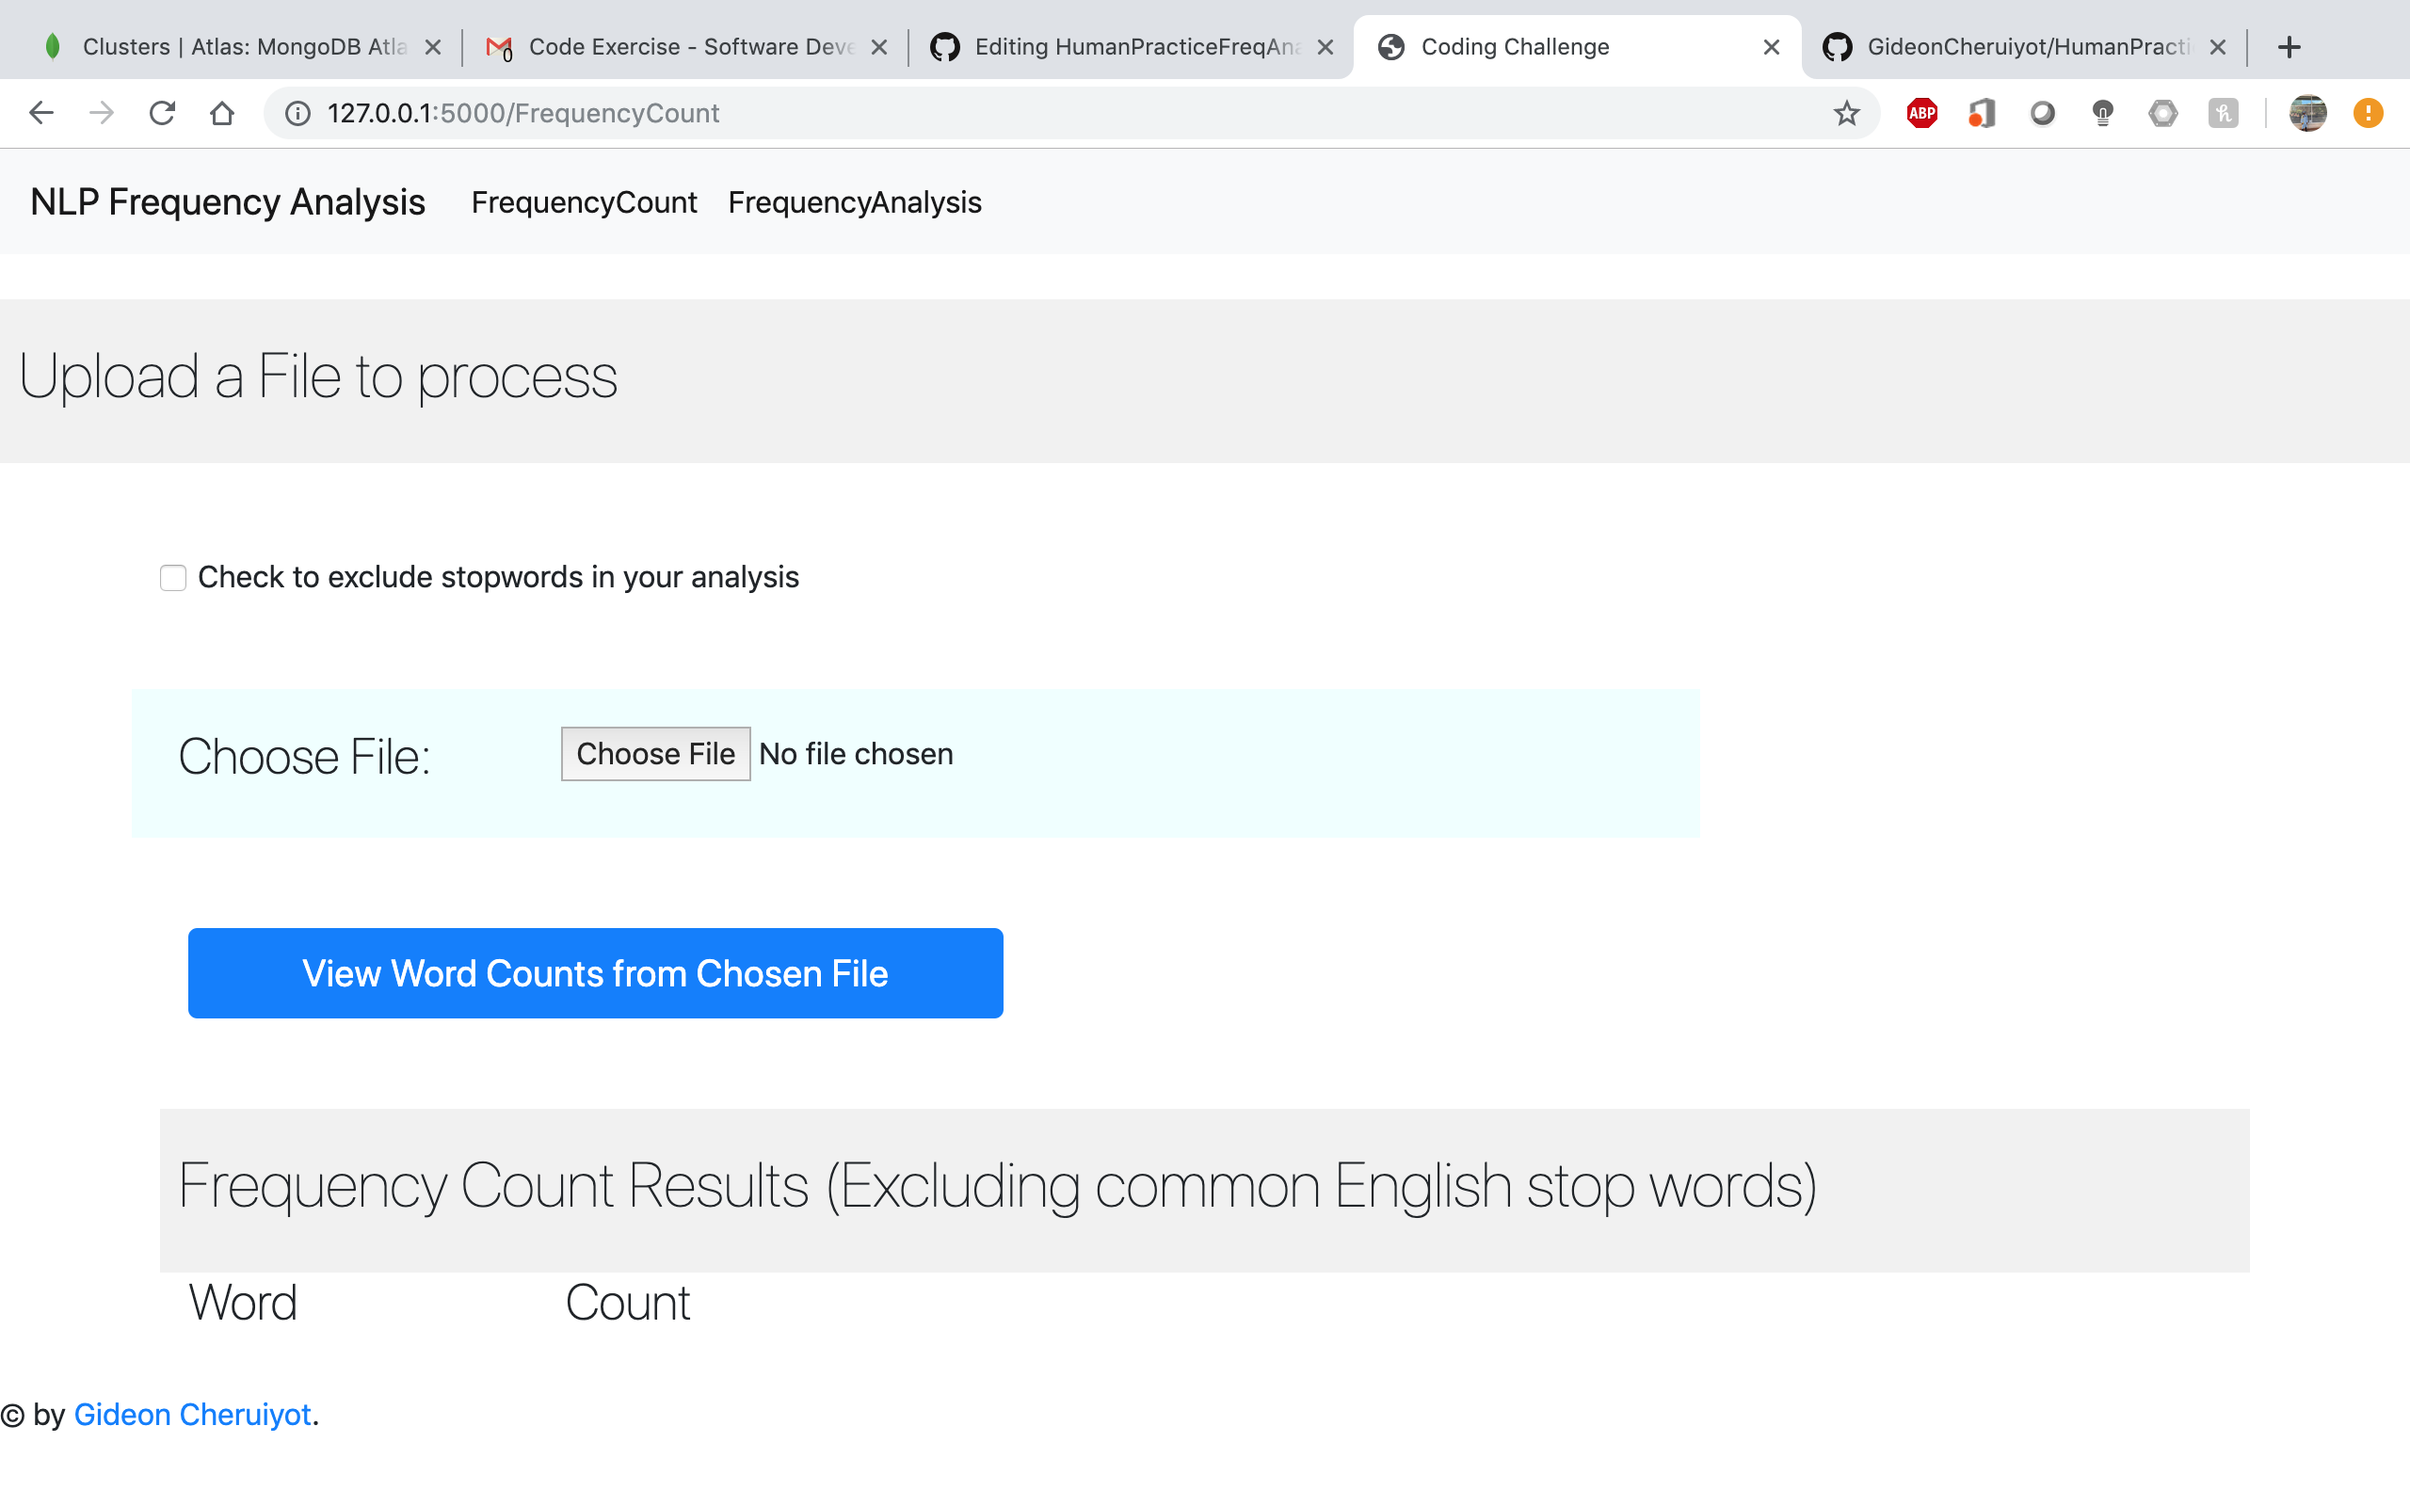
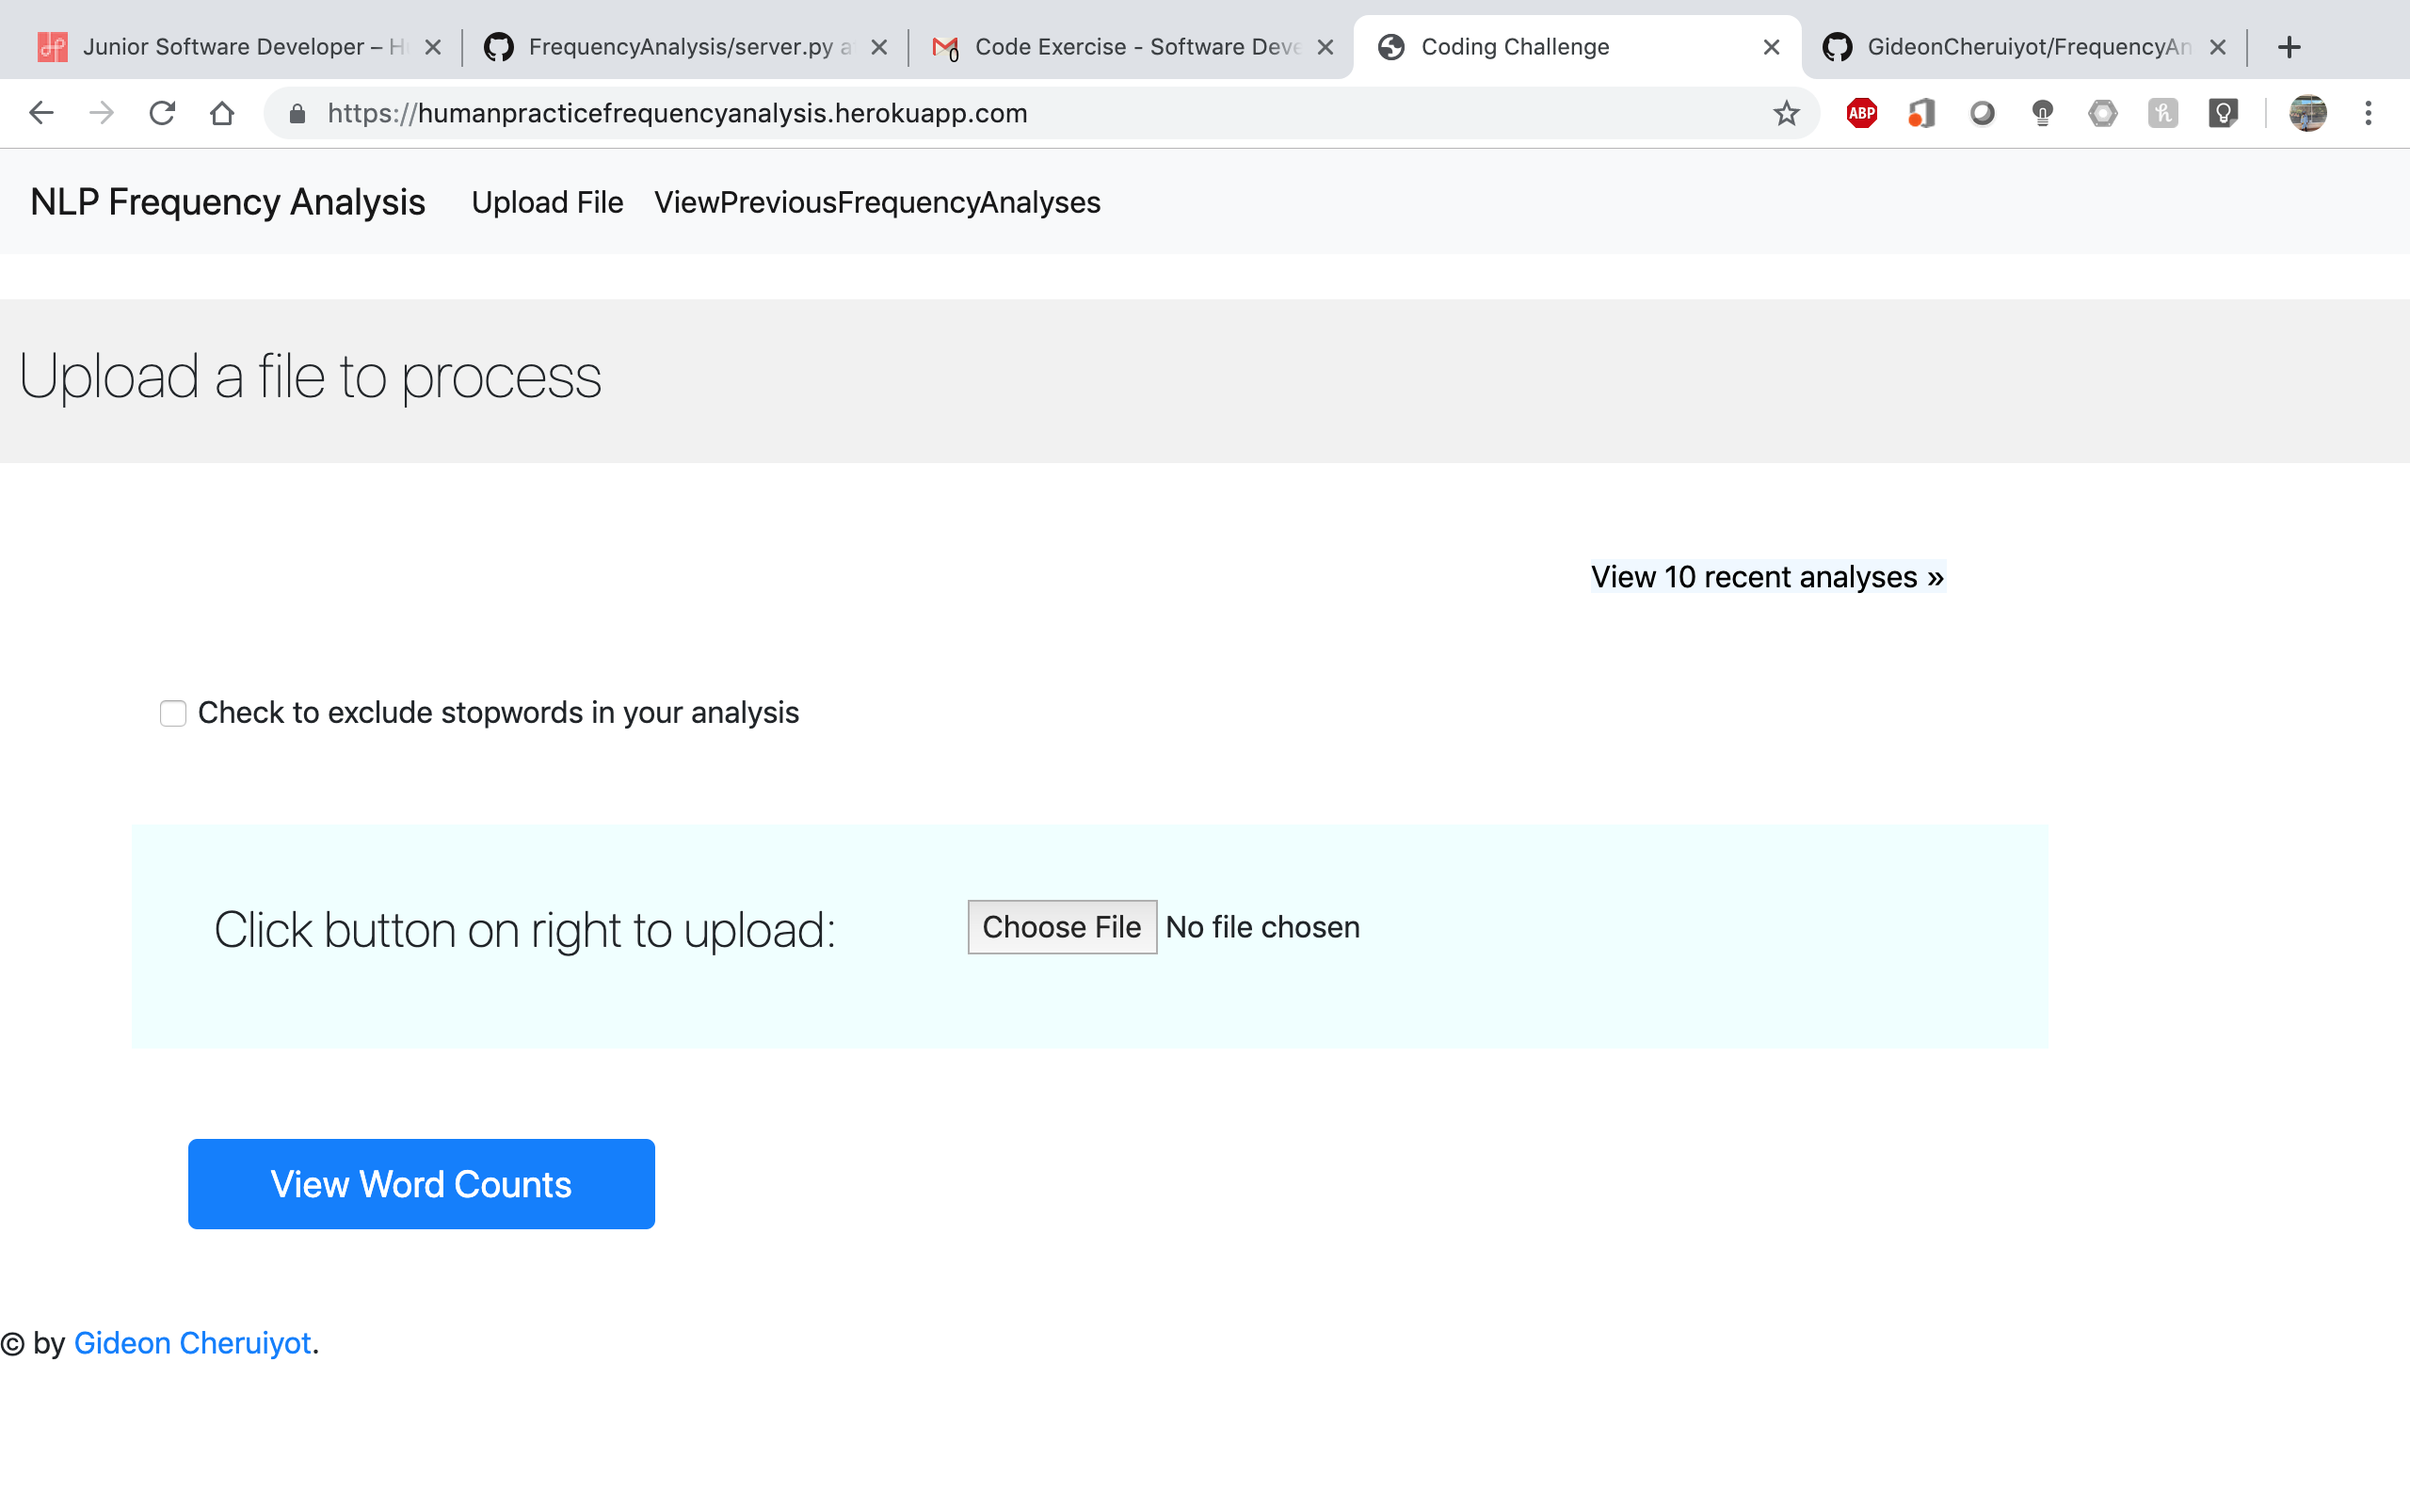
corrected file upload to accept text files from any directory
improved front end into more html pages for better user experience

deployed a version to the cloud

diff --git a/templates/frequencyCounts.html b/templates/frequencyCounts.html
@@ -16,6 +16,11 @@ h2 {
   background-color: #f1f1f1;
   padding: 20px 10px;
 }
+.flashes{
+  color: blue;
+  font-size: 30px;
+}
+
 .lol {
   overflow: hidden;
   background-color: azure;
@@ -55,13 +60,27 @@ h5 {
 	<div class="container">
 		<div class = "row">
   <div align = "left" class = "one col-md-9">
-<a href="http://127.0.0.1:5000/Upload" class="previous">&laquo; Go back and upload another file</a>
+<a href="https://humanpracticefrequencyanalysis.herokuapp.com/" class="previous">&laquo; Go back and upload another file</a>
 </div>
 <div class = "two col-md-3">
-<a href="http://127.0.0.1:5000/FrequencyAnalysis" class="next"> View 10 recent analyses &raquo;</a>
+<a href="https://humanpracticefrequencyanalysis.herokuapp.com/FrequencyAnalysis" class="next"> View 10 recent analyses &raquo;</a>
 </div>
 </div>
 <br>
+
+<p>
+  {% with messages = get_flashed_messages() %}
+    {% if messages %}
+    <ul class=flashes>
+    {% for message in messages %}
+      <li>{{ message }}</li>
+    {% endfor %}
+    </ul>
+    {% endif %}
+  {% endwith %}
+</p>
+<br>
+
 
 	    <div class="topclass">
 	      <h2>Frequency Count Results (Excluding common English stop words)</h2>

diff --git a/templates/layout.html b/templates/layout.html
@@ -25,15 +25,15 @@
   <button class="navbar-toggler" type="button" data-toggle="collapse" data-target="#navbarTogglerDemo03" aria-controls="navbarTogglerDemo03" aria-expanded="false" aria-label="Toggle navigation">
     <span class="navbar-toggler-icon"></span>
   </button>
-  <a class="navbar-brand" href="http://127.0.0.1:5000/Upload">NLP Frequency Analysis</a>
+  <a class="navbar-brand" href="https://humanpracticefrequencyanalysis.herokuapp.com">NLP Frequency Analysis</a>
 
   <div class="collapse navbar-collapse" id="navbarTogglerDemo03">
     <ul class="navbar-nav mr-auto mt-2 mt-lg-0">
       <li class="nav-item active">
-        <a class="nav-link" href="http://127.0.0.1:5000/Upload">Upload File</a>
+        <a class="nav-link" href="https://humanpracticefrequencyanalysis.herokuapp.com">Upload File</a>
       </li>
       <li class="nav-item active">
-        <a class="nav-link" href="http://127.0.0.1:5000/FrequencyAnalysis">FrequencyAnalysis</a>
+        <a class="nav-link" href="https://humanpracticefrequencyanalysis.herokuapp.com/FrequencyAnalysis">ViewPreviousFrequencyAnalyses</a>
       </li>
     </ul>
   </div>

diff --git a/templates/upload.html b/templates/upload.html
@@ -118,7 +118,7 @@ h5 {
 <a href="http://127.0.0.1:5000/Upload" class="previous"></a>
 </div>
 <div class = "two col-md-3">
-<a href="http://127.0.0.1:5000/FrequencyAnalysis" class="next"> View 10 recent analyses &raquo;</a>
+<a href="https://humanpracticefrequencyanalysis.herokuapp.com/FrequencyAnalysis" class="next"> View 10 recent analyses &raquo;</a>
 </div>
 </div>
 <br>
@@ -131,6 +131,7 @@ h5 {
 
 <br>
 <br>
+
 
 <div class="lol col-md-11 row">
      

diff --git a/templates/analysis.html b/templates/analysis.html
@@ -36,7 +36,7 @@ font-weight: 200px;
 {% block content %}
 <br>
    <div align = "left" class = "one col-md-9">
-<a href="http://127.0.0.1:5000/Upload" class="previous">&laquo; Go back and upload another file</a>
+<a href="https://humanpracticefrequencyanalysis.herokuapp.com" class="previous">&laquo; Go back and upload another file</a>
 </div>
 
 <div class="container mt-3">

diff --git a/server.py b/server.py
@@ -4,9 +4,11 @@ from flask import Flask
 from flask import render_template
 from flask import Response, request, jsonify
 from flask import Flask, render_template, request
+from flask import Flask, flash, request, redirect, render_template
 from werkzeug import secure_filename
 from nltk.tokenize import word_tokenize
 from nltk.probability import FreqDist
+import urllib.request
 import pymongo
 import os
 import datetime
@@ -16,11 +18,14 @@ from nltk import word_tokenize,sent_tokenize
 from nltk.corpus import stopwords
 from nltk.tokenize import RegexpTokenizer
 
-# initialize connection to MongoDB and retrieve access to data files
-client = pymongo.MongoClient("mongodb://Bedoki12:Bedoki12@ds151007.mlab.com:51007/heroku_v25h8865")
 
-#client = pymongo.MongoClient("mongodb://Bedoki:Bedoki12@cluster0-shard-00-00-p63uk.gcp.mongodb.net:27017,cluster0-shard-00-01-p63uk.gcp.mongodb.net:27017,cluster0-shard-00-02-p63uk.gcp.mongodb.net:27017/test?ssl=true&replicaSet=Cluster0-shard-0&authSource=admin&retryWrites=true&w=majority")
-db = client.heroku_v25h8865
+# initialize connection to MongoDB and retrieve access to data files
+#client = pymongo.MongoClient("mongodb://Bedoki12:Bedoki12@ds151007.mlab.com:51007/heroku_v25h8865")
+
+client = pymongo.MongoClient("mongodb://Bedoki:Bedoki12@cluster0-shard-00-00-p63uk.gcp.mongodb.net:27017,cluster0-shard-00-01-p63uk.gcp.mongodb.net:27017,cluster0-shard-00-02-p63uk.gcp.mongodb.net:27017/test?ssl=true&replicaSet=Cluster0-shard-0&authSource=admin&retryWrites=true&w=majority")
+#db = client.heroku_v25h8865
+db = client.HumanPractice
+
 
 collection = db.Freq
 
@@ -29,6 +34,12 @@ nltk.download('punkt')
 nltk.download('stopwords')
 
 app = Flask(__name__)
+app.secret_key = "secret key"
+APP_ROOT = os.path.dirname(os.path.abspath(__file__))
+UPLOAD_FOLDER = os.path.join(APP_ROOT, 'static/uploads')
+app.config['UPLOAD_FOLDER'] = UPLOAD_FOLDER
+
+app.config['MAX_CONTENT_LENGTH'] = 16 * 1024 * 1024
 
 
 def remove_non_ascii(words):
@@ -69,7 +80,7 @@ def replace_numbers(words):
     return remove_numbers
 
 
-
+#normalize the text for processing
 def normalize(words):
     words = remove_non_ascii(words)
     words = to_lowercase(words)
@@ -95,71 +106,94 @@ def stem_words(words):
         stems.append(stem)
     return stems
 
+ALLOWED_EXTENSIONS = set(['txt'])
+
+#only allowed extensions 
+def allowed_file(filename):
+    return '.' in filename and filename.rsplit('.', 1)[1].lower() in ALLOWED_EXTENSIONS
+ 
+@app.route('/')
+def upload_form():
+    return render_template('upload.html')
+
 @app.route('/FrequencyCount', methods=['GET','POST'])
 def FrequencyCount():
     if request.method == 'POST':
-        # for secure filenames. Read the documentation.
+        # check if the post request has the file part
+        if 'myfile' not in request.files:
+            flash('No file part')
+            return render_template('frequencyCounts.html')
         file = request.files['myfile']
-        filename = secure_filename(file.filename) 
-
-        with open(filename) as f:
+        if file.filename == '':
+           
+            flash('Error! No file selected for uploading')
+            return render_template('frequencyCounts.html')
+            
+        #check if file is valid 
+        if file and allowed_file(file.filename): 
+            filename = secure_filename(file.filename)
+            file.save(os.path.join(app.config['UPLOAD_FOLDER'], filename))
+            with open(os.path.join(app.config['UPLOAD_FOLDER'], filename)) as f:
         #with open("/Users/mercytich/Desktop/filename") as f:
-            file_content = f.read()  
-            tokenized_word=word_tokenize(file_content)   
-            tokenized_word = [word for word in tokenized_word if word.isalpha()]
-            tokenized_word = normalize(tokenized_word)
-            tokenized_word = stem_words(tokenized_word) 
-            fdist_withStopwords = FreqDist(tokenized_word)
-            with_Stopwords_25 = fdist_withStopwords.most_common(25)
-            fdist_withoutStopwords = FreqDist(remove_stopwords(tokenized_word))
-            without_Stopwords_25 = fdist_withoutStopwords.most_common(25)
+                file_content = f.read()
+                print(file_content)  
+                tokenized_word=word_tokenize(file_content)   
+                tokenized_word = [word for word in tokenized_word if word.isalpha()]
+                tokenized_word = normalize(tokenized_word)
+                tokenized_word = stem_words(tokenized_word) 
+                fdist_withStopwords = FreqDist(tokenized_word)
+                with_Stopwords_25 = fdist_withStopwords.most_common(25)
+                fdist_withoutStopwords = FreqDist(remove_stopwords(tokenized_word))
+                without_Stopwords_25 = fdist_withoutStopwords.most_common(25)
 
-            #add  (original text, stop words setting, and resulting word frequencies) to the mongodb collection
-            stopwords_flag= "No_Stopwords"
-            is_checked = request.form.get('option_1')
-            if(is_checked=='on'):
+                #add  (original text, stop words setting, and resulting word frequencies) to the mongodb collection
                 stopwords_flag= "No_Stopwords"
-                without_stopwords_data = {
-                        'original_text': file_content,
-                        'stop_words_setting': stopwords_flag,
-                        'word_frequencies': without_Stopwords_25
-                    }
-                #result = collection.insert_one(without_stopwords_data) 
-                collection.insert(without_stopwords_data)   
+                #store data without stopwords in db
+                is_checked = request.form.get('option_1')
+                if(is_checked=='on'):
+                    stopwords_flag= "No_Stopwords"
+                    without_stopwords_data = {
+                            'original_text': file_content,
+                            'stop_words_setting': stopwords_flag,
+                            'word_frequencies': without_Stopwords_25
+                        }
+                    #result = collection.insert_one(without_stopwords_data) 
+                    collection.insert(without_stopwords_data)   
 
-            else:
-            #with stopwords
-                stopwords_flag = "Includes_Stopwords"
-                stopwords_data = {
-                        'original_text': file_content,
-                        'stop_words_setting': stopwords_flag,
-                        'word_frequencies': with_Stopwords_25
-                    }
+                else:
+                #store data with stopwords in mongo db
+                    stopwords_flag = "Includes_Stopwords"
+                    stopwords_data = {
+                            'original_text': file_content,
+                            'stop_words_setting': stopwords_flag,
+                            'word_frequencies': with_Stopwords_25
+                        }
 
-                #result = collection.insert_one(stopwords_data)
-                collection.insert(stopwords_data)   
+                    #result = collection.insert_one(stopwords_data)
+                    collection.insert_one(stopwords_data)   
                 
+                #store results in mongo database then push to frontend
+                return render_template('frequencyCounts.html', results=without_Stopwords_25) 
+        else:
+            #File type error exception
+            flash('Wrong file type! Allowed file types are txt')
+            return render_template('frequencyCounts.html')
 
-            #store results in mongo database then push to frontend
-            return render_template('frequencyCounts.html', results=without_Stopwords_25) 
+
     else:
         return "OK"
 
-
-
-@app.route('/Upload', methods=['GET', 'POST'])
-def Upload():         
-    return render_template('upload.html')
 
 #fetch analysis from mongod database
 @app.route('/FrequencyAnalysis', methods=['GET','POST'])
 def FrequencyAnalysis():
     #query to pull the most recent 11 items from mongo database
     myresult = collection.find().skip(collection.count() - 11)
+
     list   = []
     for i in myresult:
         list.append(i)
- 
+    print(list)
     
     return render_template('analysis.html', list = list)
 
@@ -280,6 +314,8 @@ class Stemmer:
             elif (self.M() == 1 and self.cvc(self.x)):
                 self.set("e")
 
+
+#stemming algo
 
     def stem(self, p, i, j):
         self.str = p  
